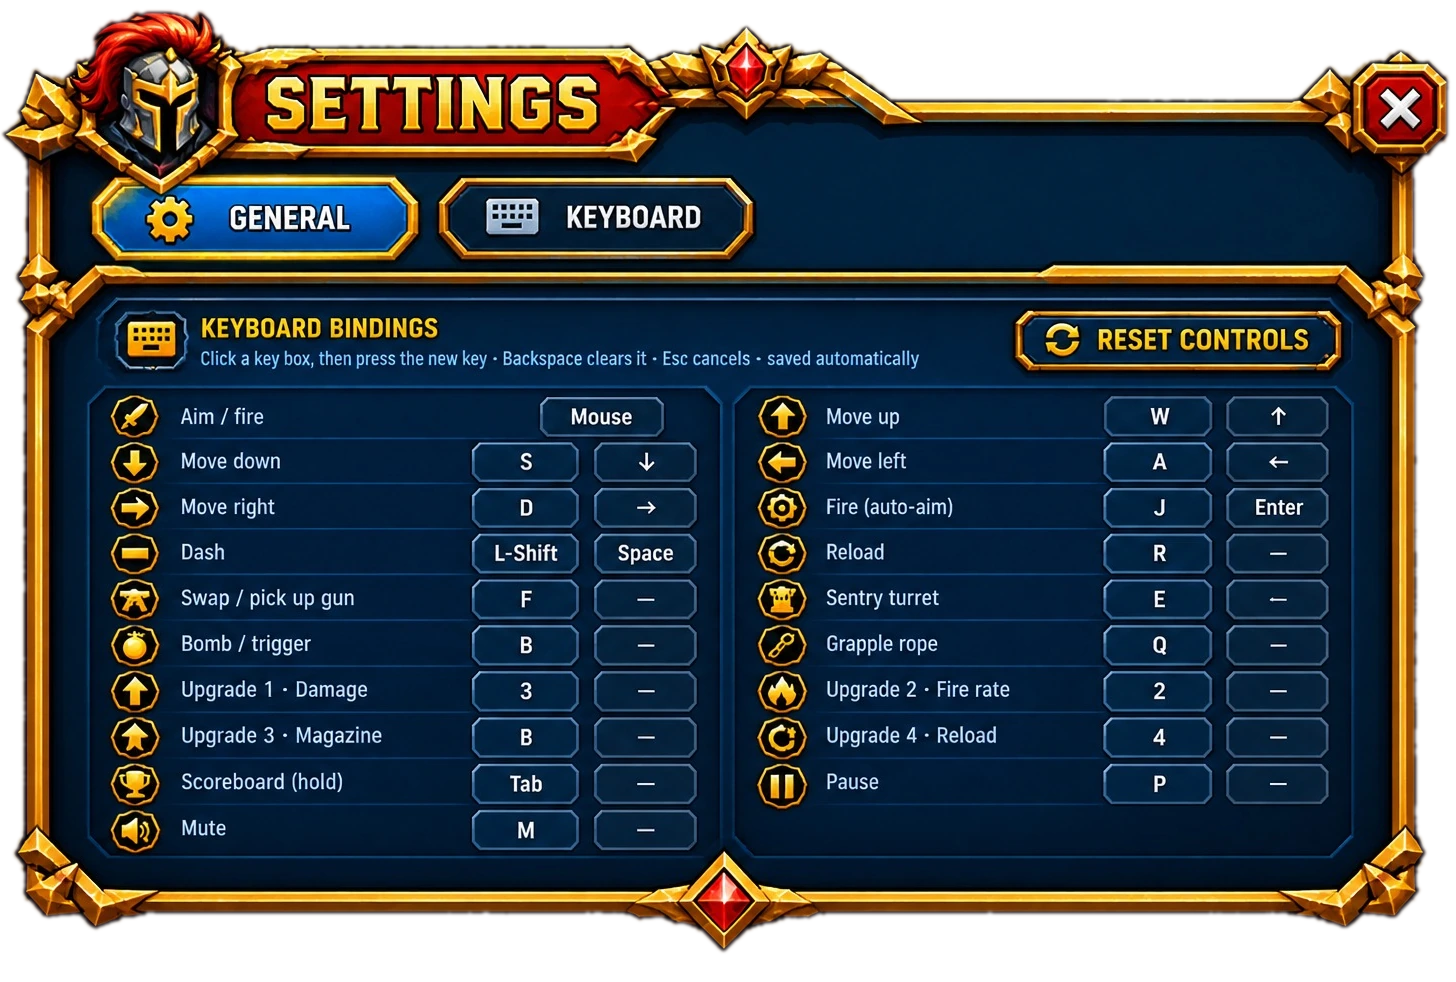
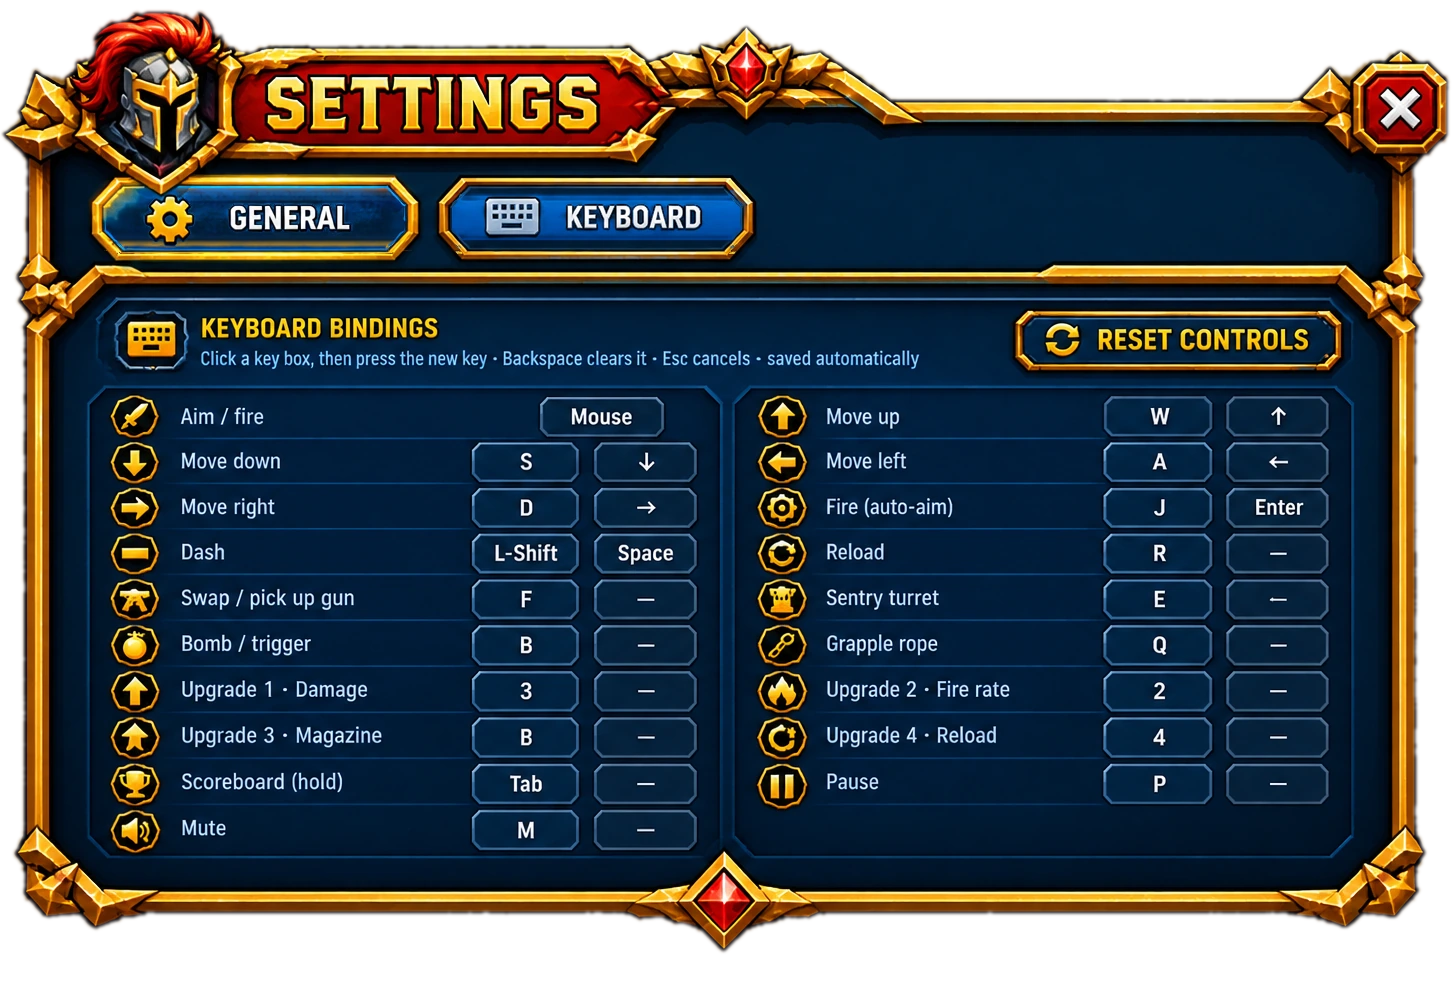
Add files via upload

Changed region(s): [[0.0618, 0.1833, 0.2782, 0.2749], [0.3091, 0.1833, 0.5254, 0.2444]]

diff --git a/index.html b/index.html
@@ -1,6 +1,6 @@
 <!DOCTYPE html>
 <html lang="en"><head><meta charset="utf-8">
-<meta name="viewport" content="width=device-width,initial-scale=1,maximum-scale=1,user-scalable=no,viewport-fit=cover">
+<script src="lock.js"></script><meta name="viewport" content="width=device-width,initial-scale=1,maximum-scale=1,user-scalable=no,viewport-fit=cover">
 <title>CSuperKnights (CSK) — Multiplayer Arena Shooter</title>
 <meta name="description" content="CSuperKnights (CSK, also CsKnights): fast top-down arena shooter. Play solo against bots or host a room. First to 15 kills wins.">
 <meta name="theme-color" content="#0d1217"><meta name="color-scheme" content="dark">
@@ -180,7 +180,7 @@
   </div>
 </div>
 
-<div id="st" hidden role="dialog" aria-label="Settings"><div class="sxw"><div class="sx" data-p="g"><button class="hz" id="stx" type="button" aria-label="Close" style="--x:1396;--y:80;--w:104;--h:104"></button><button class="hz" type="button" data-t="g" aria-label="General" style="--x:140;--y:203;--w:326;--h:84"></button><button class="hz" type="button" data-t="k" aria-label="Keyboard" style="--x:486;--y:203;--w:314;--h:84"></button><div class="pg" id="sx-g"><div class="pt st" style="--x:203;--y:367;--w:116;--h:42"><b id="s1">0</b></div><div class="pt st" style="--x:395;--y:367;--w:116;--h:42"><b id="s2">0</b></div><div class="pt st" style="--x:587;--y:367;--w:116;--h:42"><b id="s3">0</b></div><div class="pt st" style="--x:784;--y:367;--w:116;--h:42"><b id="s4">0</b></div><div class="pt ac" style="--x:158;--y:452;--w:782;--h:84"><div class="accb" id="accb"><div class="accb-h"><b>GUN ACCURACY</b><span id="accT">–</span><em id="accC"></em></div><div id="accR"></div></div></div><div class="pt vl" style="--x:1172;--y:380;--w:160;--h:32"><input type="range" id="vol" min="0" max="100"></div><div class="pt vt" style="--x:1334;--y:380;--w:56;--h:32"><span id="vv"></span></div><button class="sk" id="o-mute" role="switch" type="button" style="--x:1324;--y:435;--w:56;--h:34"><i></i></button><button class="sk" data-o="dr" role="switch" type="button" style="--x:1324;--y:491;--w:56;--h:34"><i></i></button><button class="sk tg" data-k="dn" role="switch" type="button" style="--x:443;--y:618;--w:56;--h:34"><i></i></button><button class="sk tg" data-k="fps" role="switch" type="button" style="--x:443;--y:680;--w:56;--h:34"><i></i></button><button class="sk" data-o="hf" role="switch" type="button" style="--x:895;--y:789;--w:56;--h:34"><i></i></button><button class="sk" data-o="kf" role="switch" type="button" style="--x:895;--y:845;--w:56;--h:34"><i></i></button><button class="sk" data-o="an" role="switch" type="button" style="--x:1326;--y:616;--w:56;--h:34"><i></i></button><button class="sk" data-o="tp" role="switch" type="button" style="--x:1326;--y:673;--w:56;--h:34"><i></i></button><div class="seg" data-seg="gfx" style="--x:778;--y:615;--w:176;--h:38"><button type="button" data-i="0">LOW</button><button type="button" data-i="1">MED</button><button type="button" data-i="2">HIGH</button></div><div class="seg" data-seg="shk" style="--x:778;--y:677;--w:176;--h:38"><button type="button" data-i="0">OFF</button><button type="button" data-i="1">LOW</button><button type="button" data-i="2">FULL</button></div><div class="seg" data-seg="fx" style="--x:778;--y:734;--w:176;--h:38"><button type="button" data-i="0">LOW</button><button type="button" data-i="1">MED</button><button type="button" data-i="2">HIGH</button></div><button class="hz" id="o-fs" type="button" aria-label="Fullscreen" style="--x:389;--y:744;--w:112;--h:42"></button><button class="hz" id="o-ed" type="button" aria-label="Edit layout" style="--x:1253;--y:729;--w:154;--h:42"></button><button class="hz" id="o-rs" type="button" aria-label="Reset settings" style="--x:1276;--y:788;--w:103;--h:40"></button><button class="hz" id="o-rt" type="button" aria-label="Reset career stats" style="--x:1276;--y:844;--w:103;--h:40"></button></div><div class="pg" id="sx-k" hidden><button class="hz" id="kb-rs" type="button" aria-label="Reset controls" style="--x:1060;--y:334;--w:328;--h:62"></button><div id="kg"></div></div></div></div></div><div id="swp" class="off"></div><div id="swb" class="off" role="button" aria-label="Swap weapon"></div><div id="eqp"></div><div id="crb" class="off" role="button" aria-label="Open crate"></div><div id="crp" class="off"></div><div id="fps"></div><div id="err" role="alert"></div>
+<div id="st" hidden role="dialog" aria-label="Settings"><div class="sxw"><div class="sx" data-p="g"><button class="hz" id="stx" type="button" aria-label="Close" style="--x:1396;--y:80;--w:104;--h:104"></button><button class="hz" type="button" data-t="g" aria-label="General" style="--x:140;--y:203;--w:326;--h:84"></button><button class="hz" type="button" data-t="k" aria-label="Keyboard" style="--x:486;--y:203;--w:314;--h:84"></button><div class="pg" id="sx-g"><button class="so" id="st-so" type="button" aria-label="Sign out" hidden style="--x:165;--y:806;--w:336;--h:70"><span>⎋ SIGN OUT</span></button><div class="pt st" style="--x:203;--y:367;--w:116;--h:42"><b id="s1">0</b></div><div class="pt st" style="--x:395;--y:367;--w:116;--h:42"><b id="s2">0</b></div><div class="pt st" style="--x:587;--y:367;--w:116;--h:42"><b id="s3">0</b></div><div class="pt st" style="--x:784;--y:367;--w:116;--h:42"><b id="s4">0</b></div><div class="pt ac" style="--x:158;--y:452;--w:782;--h:84"><div class="accb" id="accb"><div class="accb-h"><b>GUN ACCURACY</b><span id="accT">–</span><em id="accC"></em></div><div id="accR"></div></div></div><div class="pt vl" style="--x:1172;--y:380;--w:160;--h:32"><input type="range" id="vol" min="0" max="100"></div><div class="pt vt" style="--x:1334;--y:380;--w:56;--h:32"><span id="vv"></span></div><button class="sk" id="o-mute" role="switch" type="button" style="--x:1324;--y:435;--w:56;--h:34"><i></i></button><button class="sk" data-o="dr" role="switch" type="button" style="--x:1324;--y:491;--w:56;--h:34"><i></i></button><button class="sk tg" data-k="dn" role="switch" type="button" style="--x:443;--y:618;--w:56;--h:34"><i></i></button><button class="sk tg" data-k="fps" role="switch" type="button" style="--x:443;--y:680;--w:56;--h:34"><i></i></button><button class="sk" data-o="hf" role="switch" type="button" style="--x:895;--y:789;--w:56;--h:34"><i></i></button><button class="sk" data-o="kf" role="switch" type="button" style="--x:895;--y:845;--w:56;--h:34"><i></i></button><button class="sk" data-o="an" role="switch" type="button" style="--x:1326;--y:616;--w:56;--h:34"><i></i></button><button class="sk" data-o="tp" role="switch" type="button" style="--x:1326;--y:673;--w:56;--h:34"><i></i></button><div class="seg" data-seg="gfx" style="--x:778;--y:615;--w:176;--h:38"><button type="button" data-i="0">LOW</button><button type="button" data-i="1">MED</button><button type="button" data-i="2">HIGH</button></div><div class="seg" data-seg="shk" style="--x:778;--y:677;--w:176;--h:38"><button type="button" data-i="0">OFF</button><button type="button" data-i="1">LOW</button><button type="button" data-i="2">FULL</button></div><div class="seg" data-seg="fx" style="--x:778;--y:734;--w:176;--h:38"><button type="button" data-i="0">LOW</button><button type="button" data-i="1">MED</button><button type="button" data-i="2">HIGH</button></div><button class="hz" id="o-fs" type="button" aria-label="Fullscreen" style="--x:389;--y:744;--w:112;--h:42"></button><button class="hz" id="o-ed" type="button" aria-label="Edit layout" style="--x:1253;--y:729;--w:154;--h:42"></button><button class="hz" id="o-rs" type="button" aria-label="Reset settings" style="--x:1276;--y:788;--w:103;--h:40"></button><button class="hz" id="o-rt" type="button" aria-label="Reset career stats" style="--x:1276;--y:844;--w:103;--h:40"></button></div><div class="pg" id="sx-k" hidden><button class="hz" id="kb-rs" type="button" aria-label="Reset controls" style="--x:1060;--y:334;--w:328;--h:62"></button><div id="kg"></div></div></div></div></div><div id="swp" class="off"></div><div id="swb" class="off" role="button" aria-label="Swap weapon"></div><div id="eqp"></div><div id="crb" class="off" role="button" aria-label="Open crate"></div><div id="crp" class="off"></div><div id="fps"></div><div id="err" role="alert"></div>
 
 <!-- Sound bank (large, kept as its own file to keep index.html light) -->
 <script src="sfx-data.js"></script>
@@ -205,6 +205,6 @@ window.CSK_RELAY_URL="";</script>
 <script src="lobby-fx.js"></script>
 <script src="lobby.js"></script>
 <script src="login.js"></script>
-<script src="home-new.js"></script><script>(function(){var st=document.getElementById("st"),sx=st.querySelector(".sx");st.addEventListener("click",function(e){var b=e.target.closest("[data-t]");if(!b)return;sx.dataset.p=b.dataset.t;document.getElementById("sx-g").hidden=b.dataset.t!=="g";document.getElementById("sx-k").hidden=b.dataset.t!=="k"})})()</script>
+<script src="home-new.js"></script><script>(function(){var b=document.getElementById("st-so"),a=document.getElementById("acc");function f(){b.hidden=!a||a.dataset.s==="guest"}f();new MutationObserver(f).observe(a,{attributes:true,attributeFilter:["data-s"]});b.onclick=function(){document.getElementById("stx").click();var x=document.getElementById("acbtn");if(x)x.click()}})()</script><script>(function(){var st=document.getElementById("st"),sx=st.querySelector(".sx");st.addEventListener("click",function(e){var b=e.target.closest("[data-t]");if(!b)return;sx.dataset.p=b.dataset.t;document.getElementById("sx-g").hidden=b.dataset.t!=="g";document.getElementById("sx-k").hidden=b.dataset.t!=="k"})})()</script>
 <script>window.__cskProg&&__cskProg(97)</script>
 </body></html>

diff --git a/settings.css b/settings.css
@@ -5,7 +5,7 @@
 #st .sx{--u:calc(100cqw/1456);position:relative;width:100%;height:100%;background:url(st-general.webp) center/100% 100% no-repeat;font-family:system-ui,sans-serif;color:#fff;user-select:none;-webkit-user-select:none}
 #st .sx[data-p=k]{background-image:url(st-keyboard.webp)}
 #st .pg[hidden]{display:none}
-#st .hz,#st .pt,#st .sk,#st .seg,#st .ks{position:absolute;left:calc((var(--x) - 46)/1456*100%);top:calc((var(--y) - 24)/982*100%);width:calc(var(--w)/1456*100%);height:calc(var(--h)/982*100%);margin:0;box-sizing:border-box}
+#st .hz,#st .so,#st .pt,#st .sk,#st .seg,#st .ks{position:absolute;left:calc((var(--x) - 46)/1456*100%);top:calc((var(--y) - 24)/982*100%);width:calc(var(--w)/1456*100%);height:calc(var(--h)/982*100%);margin:0;box-sizing:border-box}
 #st .hz{padding:0;border:0;background:none;border-radius:calc(var(--u)*14);cursor:pointer;-webkit-tap-highlight-color:transparent;touch-action:manipulation}
 #st .hz:hover{background:#ffffff1c;box-shadow:0 0 calc(var(--u)*14) #ffd067aa}
 #st .hz:active{background:#ffffff33;transform:scale(.96)}
@@ -46,3 +46,9 @@
 #st .ks.on{background:#ffb52e;border-color:#ffb52e;color:#1a1000;font-size:calc(var(--u)*15)}
 #st .ks.hit{border-color:#40e060}
 @media (prefers-reduced-motion:reduce){#st *{transition:none!important}}
+/* sign out: gold chamfered frame like RESET CONTROLS */
+#st .so{padding:calc(var(--u)*5);border:0;cursor:pointer;background:linear-gradient(180deg,#ffe27a,#e5a21f 45%,#a8620d);clip-path:polygon(7% 0,93% 0,100% 20%,100% 80%,93% 100%,7% 100%,0 80%,0 20%);filter:drop-shadow(0 calc(var(--u)*3) calc(var(--u)*4) #000a);transition:filter .12s,transform .12s}
+#st .so[hidden]{display:none}
+#st .so span{display:flex;align-items:center;justify-content:center;width:100%;height:100%;background:linear-gradient(180deg,#0b2a5a,#031836);clip-path:polygon(7% 0,93% 0,100% 20%,100% 80%,93% 100%,7% 100%,0 80%,0 20%);color:#ffc933;font:900 italic calc(var(--u)*30)/1 "Arial Narrow",system-ui,sans-serif;letter-spacing:.04em;text-shadow:0 calc(var(--u)*2) 0 #5a2d00}
+#st .so:hover{filter:brightness(1.2) drop-shadow(0 0 calc(var(--u)*8) #ffd067)}
+#st .so:active{transform:scale(.96)}

diff --git a/lock.js b/lock.js
@@ -1,0 +1,19 @@
+/* Locks the page like a native app: no zoom, no long-press menu, no text/image selection or dragging (inputs stay editable). */
+(function(){
+var ed=function(t){return t&&t.closest&&t.closest('input,textarea,[contenteditable="true"]')},o={passive:false};
+['gesturestart','gesturechange','gestureend'].forEach(function(n){document.addEventListener(n,function(e){e.preventDefault()},o)});
+document.addEventListener('touchmove',function(e){if(e.touches&&e.touches.length>1)e.preventDefault()},o);
+document.addEventListener('touchstart',function(e){if(e.touches&&e.touches.length>1)e.preventDefault()},o);
+var lt=0;document.addEventListener('touchend',function(e){var n=Date.now();if(n-lt<320&&!ed(e.target))e.preventDefault();lt=n},o);
+addEventListener('wheel',function(e){if(e.ctrlKey||e.metaKey)e.preventDefault()},o);
+addEventListener('keydown',function(e){if((e.ctrlKey||e.metaKey)&&/^(\+|-|=|_|0|Add|Subtract)$/.test(e.key))e.preventDefault()},true);
+document.addEventListener('contextmenu',function(e){e.preventDefault()},true);
+document.addEventListener('selectstart',function(e){if(!ed(e.target))e.preventDefault()},true);
+document.addEventListener('dragstart',function(e){e.preventDefault()},true);
+})();
+
+/* Low-end / mobile detection. Google sign-in uses a same-tab redirect there (a popup opens a second tab and the OS can kill the game tab to free RAM). */
+(function(){var m=navigator.deviceMemory||8,c=navigator.hardwareConcurrency||8,mob=/Android|iPhone|iPad|iPod|Mobile/i.test(navigator.userAgent)||(navigator.maxTouchPoints>1&&/Mac/.test(navigator.platform));
+window.CSK_LOW=m<=4||c<=4;window.CSK_REDIRECT=mob||window.CSK_LOW;
+try{if(window.CSK_LOW&&!localStorage.getItem('ar-set2'))localStorage.setItem('ar-set2',JSON.stringify({gfx:0,shk:1,fx:0}))}catch(e){}
+})();

diff --git a/home-new.js b/home-new.js
@@ -16,10 +16,10 @@ var cards=['pmain','pnew','pcode'],cur='pmain',pt=0;
 function show(id,instant){
  cards.forEach(function(c){var el=$(c);
   if(c===id){el.hidden=false;el.classList.remove('out');if(!instant){el.classList.remove('in');void el.offsetWidth;el.classList.add('in')}}
-  else if(!el.hidden){if(instant){el.hidden=true}else{el.classList.add('out');setTimeout(function(){if(cur!==c){el.hidden=true}el.classList.remove('out')},160)}}});
+  else if(!el.hidden){if(instant){el.hidden=true}else{el.classList.add('out');setTimeout(function(){if(cur!==c){el.hidden=true}el.classList.remove('out')},200)}}});
  cur=id}
 function openPop(){clearTimeout(pt);$('pop').classList.remove('closing');cards.forEach(function(c){$(c).hidden=true;$(c).classList.remove('in','out')});$('pop').hidden=false;show('pmain')}
-function closePop(){if($('pop').hidden)return;$('pop').classList.add('closing');clearTimeout(pt);pt=setTimeout(function(){$('pop').hidden=true;$('pop').classList.remove('closing')},160)}
+function closePop(){if($('pop').hidden)return;$('pop').classList.add('closing');clearTimeout(pt);pt=setTimeout(function(){$('pop').hidden=true;$('pop').classList.remove('closing')},200)}
 function shut(){clearTimeout(pt);$('pop').hidden=true;$('pop').classList.remove('closing')}
 $('mstart').onclick=function(){if(mode==='solo')$('solo').click();else openPop()};
 $('pclose').onclick=closePop;

diff --git a/home-new.css b/home-new.css
@@ -81,3 +81,17 @@
 #pm:not([hidden]){animation:pf .18s}
 #pm:not([hidden]) .box{animation:zin .3s cubic-bezier(.2,.9,.25,1.15) both}
 #csk-load.on .sp-stage{animation:zinF .34s cubic-bezier(.2,.9,.25,1.12)}@media (prefers-reduced-motion:reduce){#lob,#login,#st,#ed,#pm .box,#csk-load .sp-stage{animation:none!important}}
+
+/* ===== lock-down: no zoom / long-press / selection ===== */
+html,body{touch-action:pan-x pan-y;overscroll-behavior:none;-webkit-text-size-adjust:100%;text-size-adjust:100%;-webkit-touch-callout:none;-webkit-user-select:none;user-select:none;-webkit-tap-highlight-color:transparent}
+*{-webkit-touch-callout:none}
+img,svg,canvas{-webkit-user-drag:none;user-drag:none}
+input,textarea{-webkit-user-select:text;user-select:text}
+/* ===== room popup: pure fade in / fade out ===== */
+#pop{animation:pf .25s ease both}
+#pop.closing{animation:pfo .2s ease forwards}
+#pop .zc{position:absolute;left:50%;top:50%;translate:-50% -50%;margin:0}
+.zc.in{animation:zfi .25s ease both}
+.zc.out{animation:zfo .2s ease forwards;pointer-events:none}
+@keyframes zfi{from{opacity:0}to{opacity:1}}
+@keyframes zfo{from{opacity:1}to{opacity:0}}

diff --git a/game.js b/game.js
@@ -1475,7 +1475,7 @@ function initAuth(){if(auth)return true;try{const d=window.fbInit&&window.fbInit
 function fail(e){busy=false;const c=e&&e.code||'';if(c=='auth/popup-closed-by-user'||c=='auth/cancelled-popup-request'){ui();return}flash('Login failed',1)}
 async function signIn(){if(busy)return;if(!attach()){flash('Login failed',1);return}
  busy=true;ui();const pr=new firebase.auth.GoogleAuthProvider();pr.setCustomParameters({prompt:'select_account'});
- try{await auth.signInWithPopup(pr)}
+ try{if(window.CSK_REDIRECT){await auth.signInWithRedirect(pr);return}await auth.signInWithPopup(pr)}
  catch(e){if(e&&e.code=='auth/popup-blocked'){try{await auth.signInWithRedirect(pr);return}catch(x){e=x}}fail(e)}}
 async function signOut(){if(busy)return;busy=true;ui('Saving…');
  await Promise.race([push(),sleep(2500)]);

diff --git a/login.js b/login.js
@@ -53,7 +53,7 @@ async function google(){
  var a=getAuth();if(!a){say('Could not reach the server. Check your connection or ad-blocker, then reload.','bad');return}
  setBusy(true);say('Opening Google\u2026');
  var p=new firebase.auth.GoogleAuthProvider();p.setCustomParameters({prompt:'select_account'});
- try{await a.signInWithPopup(p);say('Signing in\u2026')}
+ try{if(window.CSK_REDIRECT){say('Signing in\u2026');await a.signInWithRedirect(p);return}await a.signInWithPopup(p);say('Signing in\u2026')}
  catch(e){if(e&&e.code==='auth/popup-blocked'){try{await a.signInWithRedirect(p);return}catch(x){e=x}}fail(e)}}
 async function emailLogin(){
  if(busy)return;if(needTerms())return;
